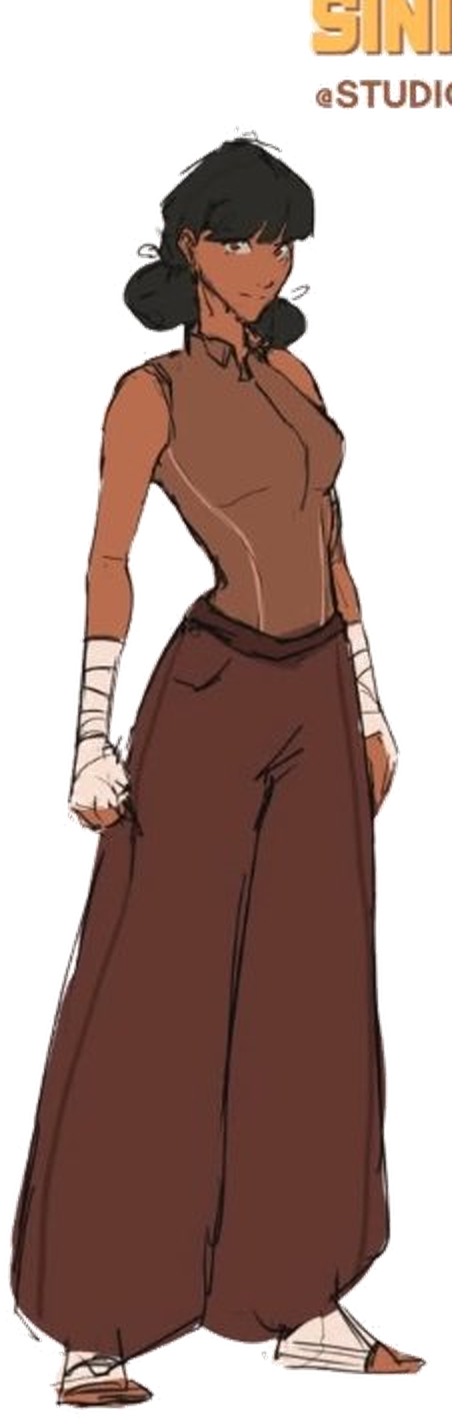
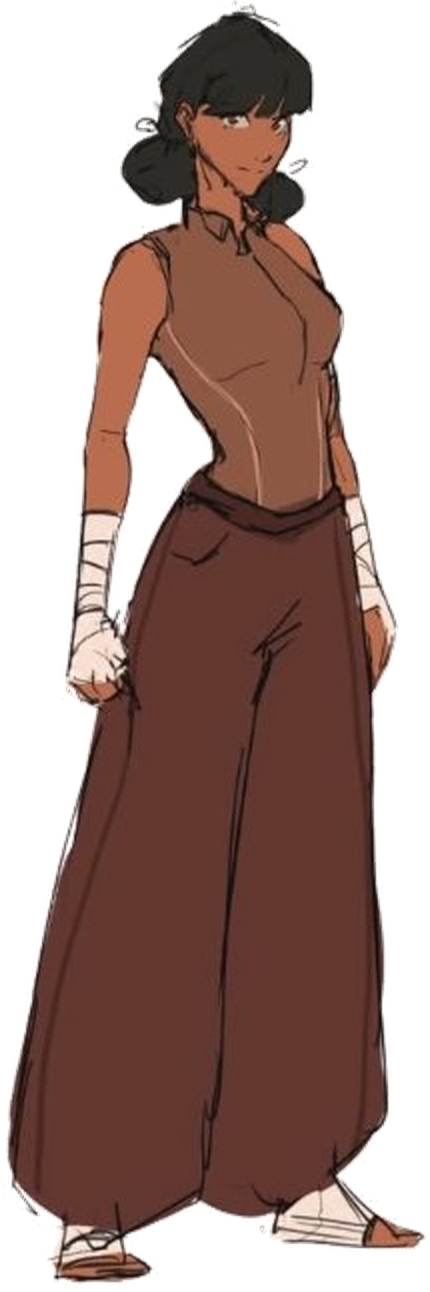
fix(characters): remove watermark text from Design 02 and align all 4 designs

Changed region(s): [[0.0, 0.0, 1.0, 1.0], [0.5442, 0.3096, 0.5744, 0.3406]]

diff --git a/index.html b/index.html
@@ -366,51 +366,51 @@
           <!-- Direct Hand-Drawn Character Turnarounds Side-by-Side (Extracted, Zero Backgrounds, Zero Fake Names) -->
           <div class="grid grid-cols-2 md:grid-cols-4 gap-6 lg:gap-8 items-end justify-items-center pt-6">
             
-            <!-- Pose 03: Tan Crop & Braid Exploration -->
+            <!-- Design 01: Tan Crop & Braid Exploration -->
             <div class="flex flex-col items-center">
               <img 
-                src="Assets/upscaled/tama_pose3_extracted.png?v=v5" 
-                alt="Tama Model Sheet Pose 03" 
+                src="Assets/upscaled/tama_pose3_extracted.png?v=v6" 
+                alt="Tama Model Sheet Design 01" 
                 class="h-[360px] sm:h-[420px] lg:h-[460px] w-auto object-contain select-none"
               >
               <span class="font-mono text-[11px] text-ink-faint uppercase tracking-wider mt-4">
-                Model Sheet &bull; Pose 03
+                Model Sheet &bull; Design 01
               </span>
             </div>
 
-            <!-- Pose 04: Sleeveless Mockneck & Baggy Pants -->
+            <!-- Design 02: Sleeveless Mockneck & Baggy Pants -->
             <div class="flex flex-col items-center">
               <img 
-                src="Assets/upscaled/tama_pose4_extracted.png?v=v5" 
-                alt="Tama Model Sheet Pose 04" 
+                src="Assets/upscaled/tama_pose4_extracted.png?v=v6" 
+                alt="Tama Model Sheet Design 02" 
                 class="h-[360px] sm:h-[420px] lg:h-[460px] w-auto object-contain select-none"
               >
               <span class="font-mono text-[11px] text-ink-faint uppercase tracking-wider mt-4">
-                Model Sheet &bull; Pose 04
+                Model Sheet &bull; Design 02
               </span>
             </div>
 
-            <!-- Pose 05: Signature Athletic Top & Wraps -->
+            <!-- Design 03: Signature Athletic Top & Wraps -->
             <div class="flex flex-col items-center">
               <img 
-                src="Assets/upscaled/tama_pose5_extracted.png?v=v5" 
-                alt="Tama Model Sheet Pose 05" 
+                src="Assets/upscaled/tama_pose5_extracted.png?v=v6" 
+                alt="Tama Model Sheet Design 03" 
                 class="h-[360px] sm:h-[420px] lg:h-[460px] w-auto object-contain select-none"
               >
               <span class="font-mono text-[11px] text-ink-faint uppercase tracking-wider mt-4">
-                Model Sheet &bull; Pose 05
+                Model Sheet &bull; Design 03
               </span>
             </div>
 
-            <!-- Pose 06: Maroon Hoodie Exploration -->
+            <!-- Design 04: Maroon Hoodie Exploration -->
             <div class="flex flex-col items-center">
               <img 
-                src="Assets/upscaled/tama_pose6_extracted.png?v=v5" 
-                alt="Tama Model Sheet Pose 06" 
+                src="Assets/upscaled/tama_pose6_extracted.png?v=v6" 
+                alt="Tama Model Sheet Design 04" 
                 class="h-[360px] sm:h-[420px] lg:h-[460px] w-auto object-contain select-none"
               >
               <span class="font-mono text-[11px] text-ink-faint uppercase tracking-wider mt-4">
-                Model Sheet &bull; Pose 06
+                Model Sheet &bull; Design 04
               </span>
             </div>
 
